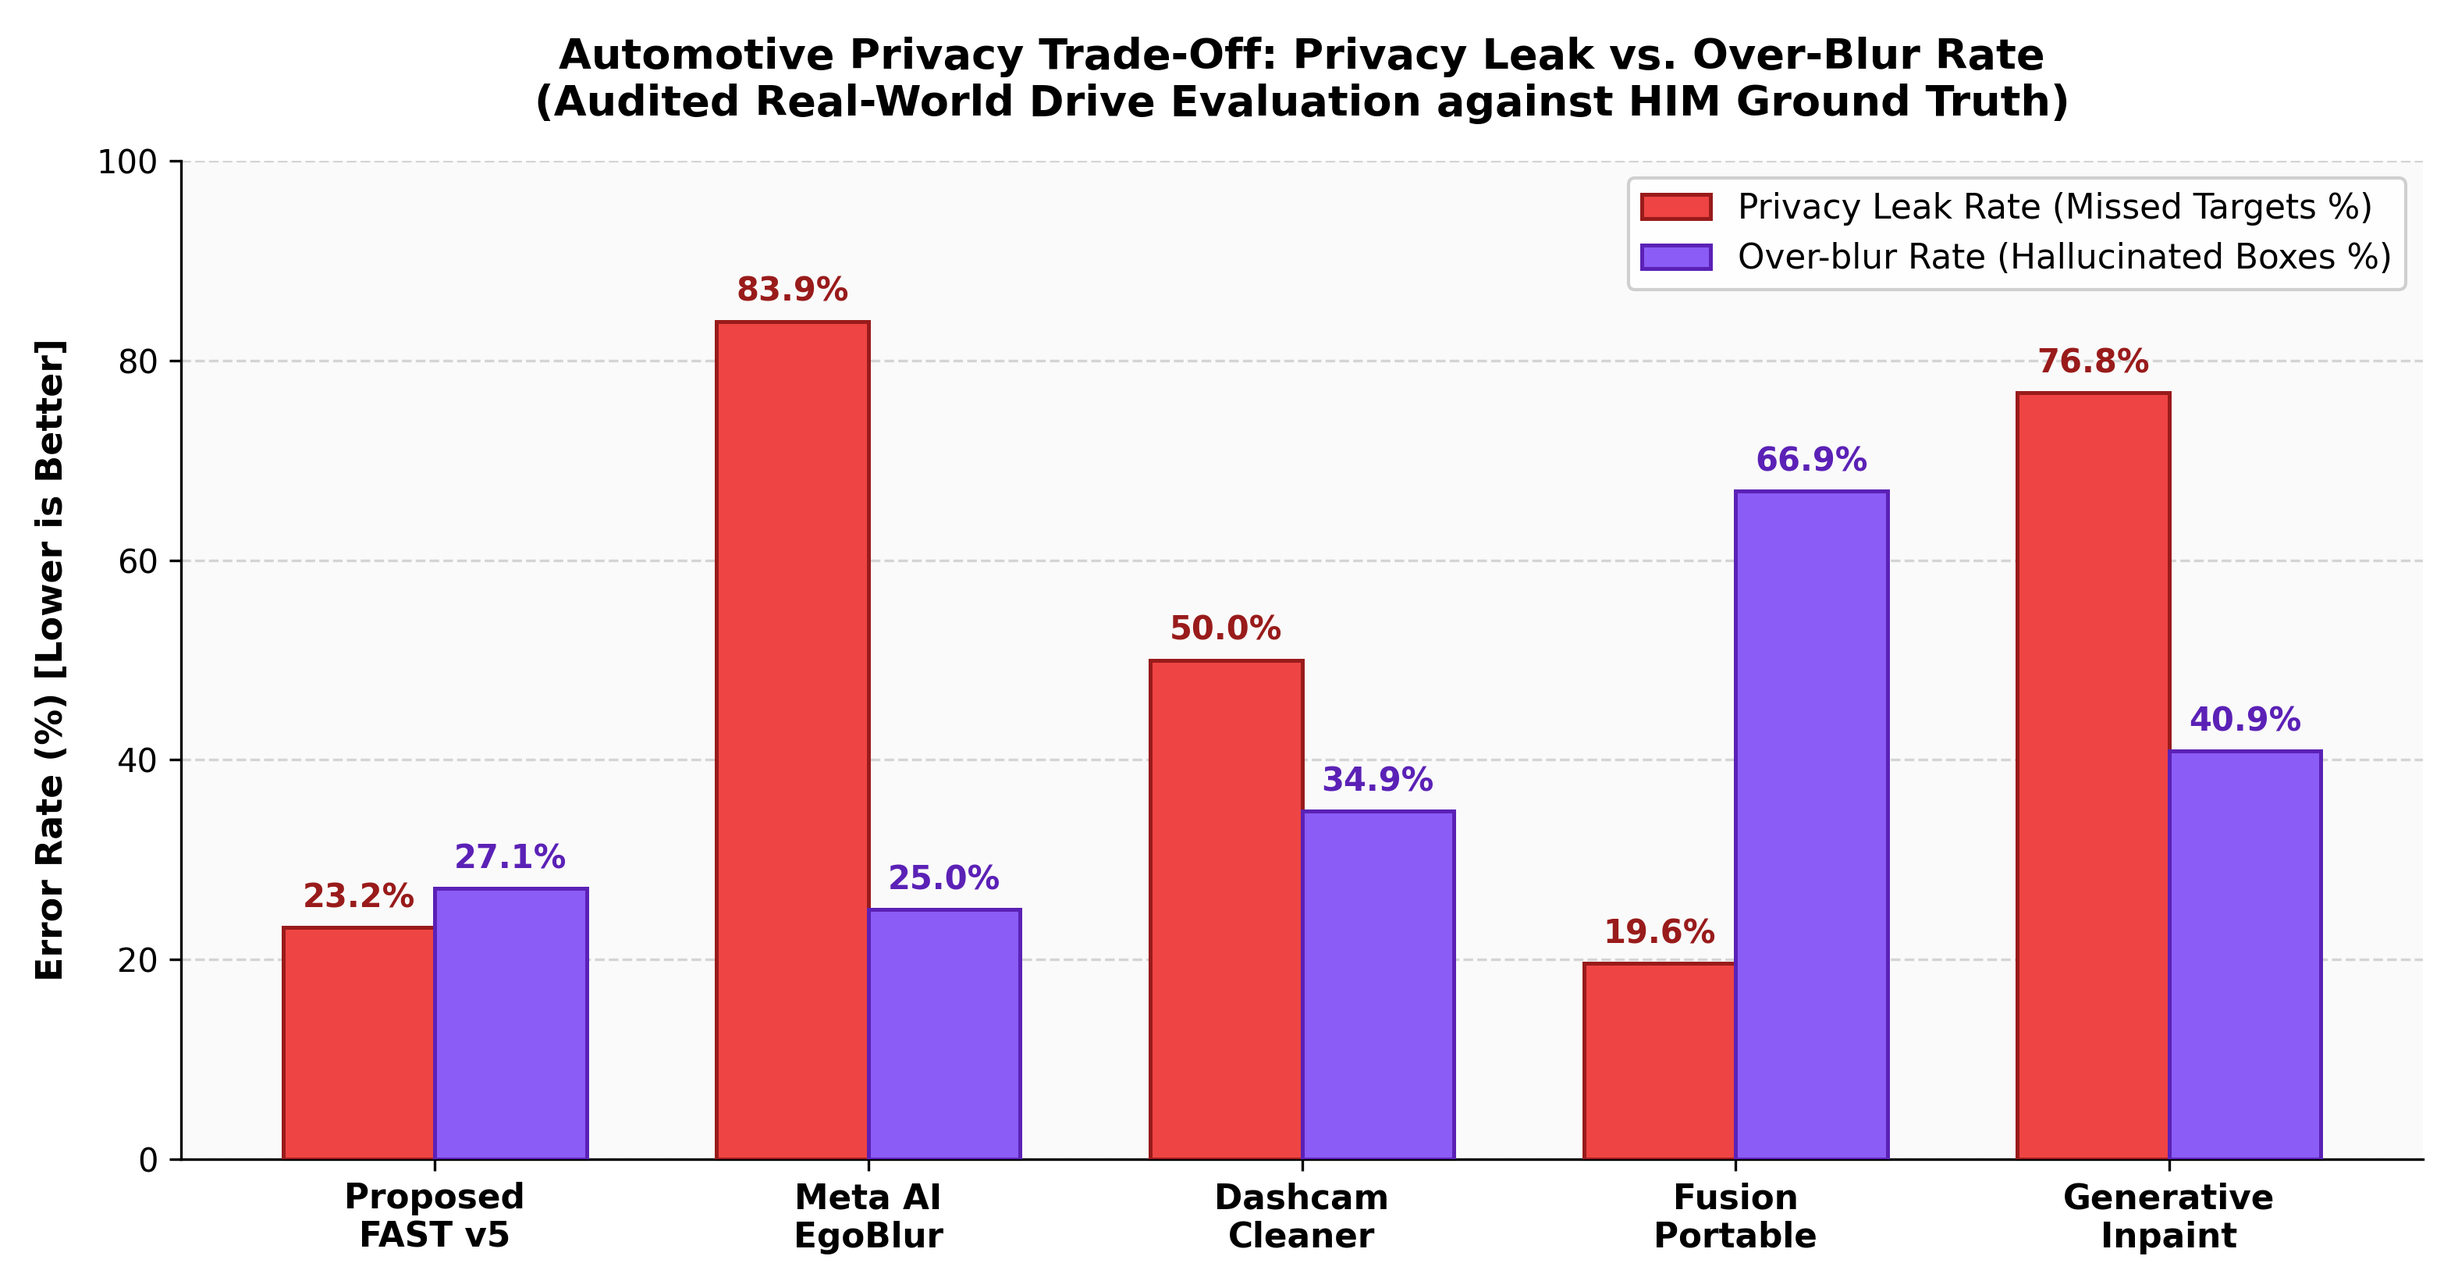
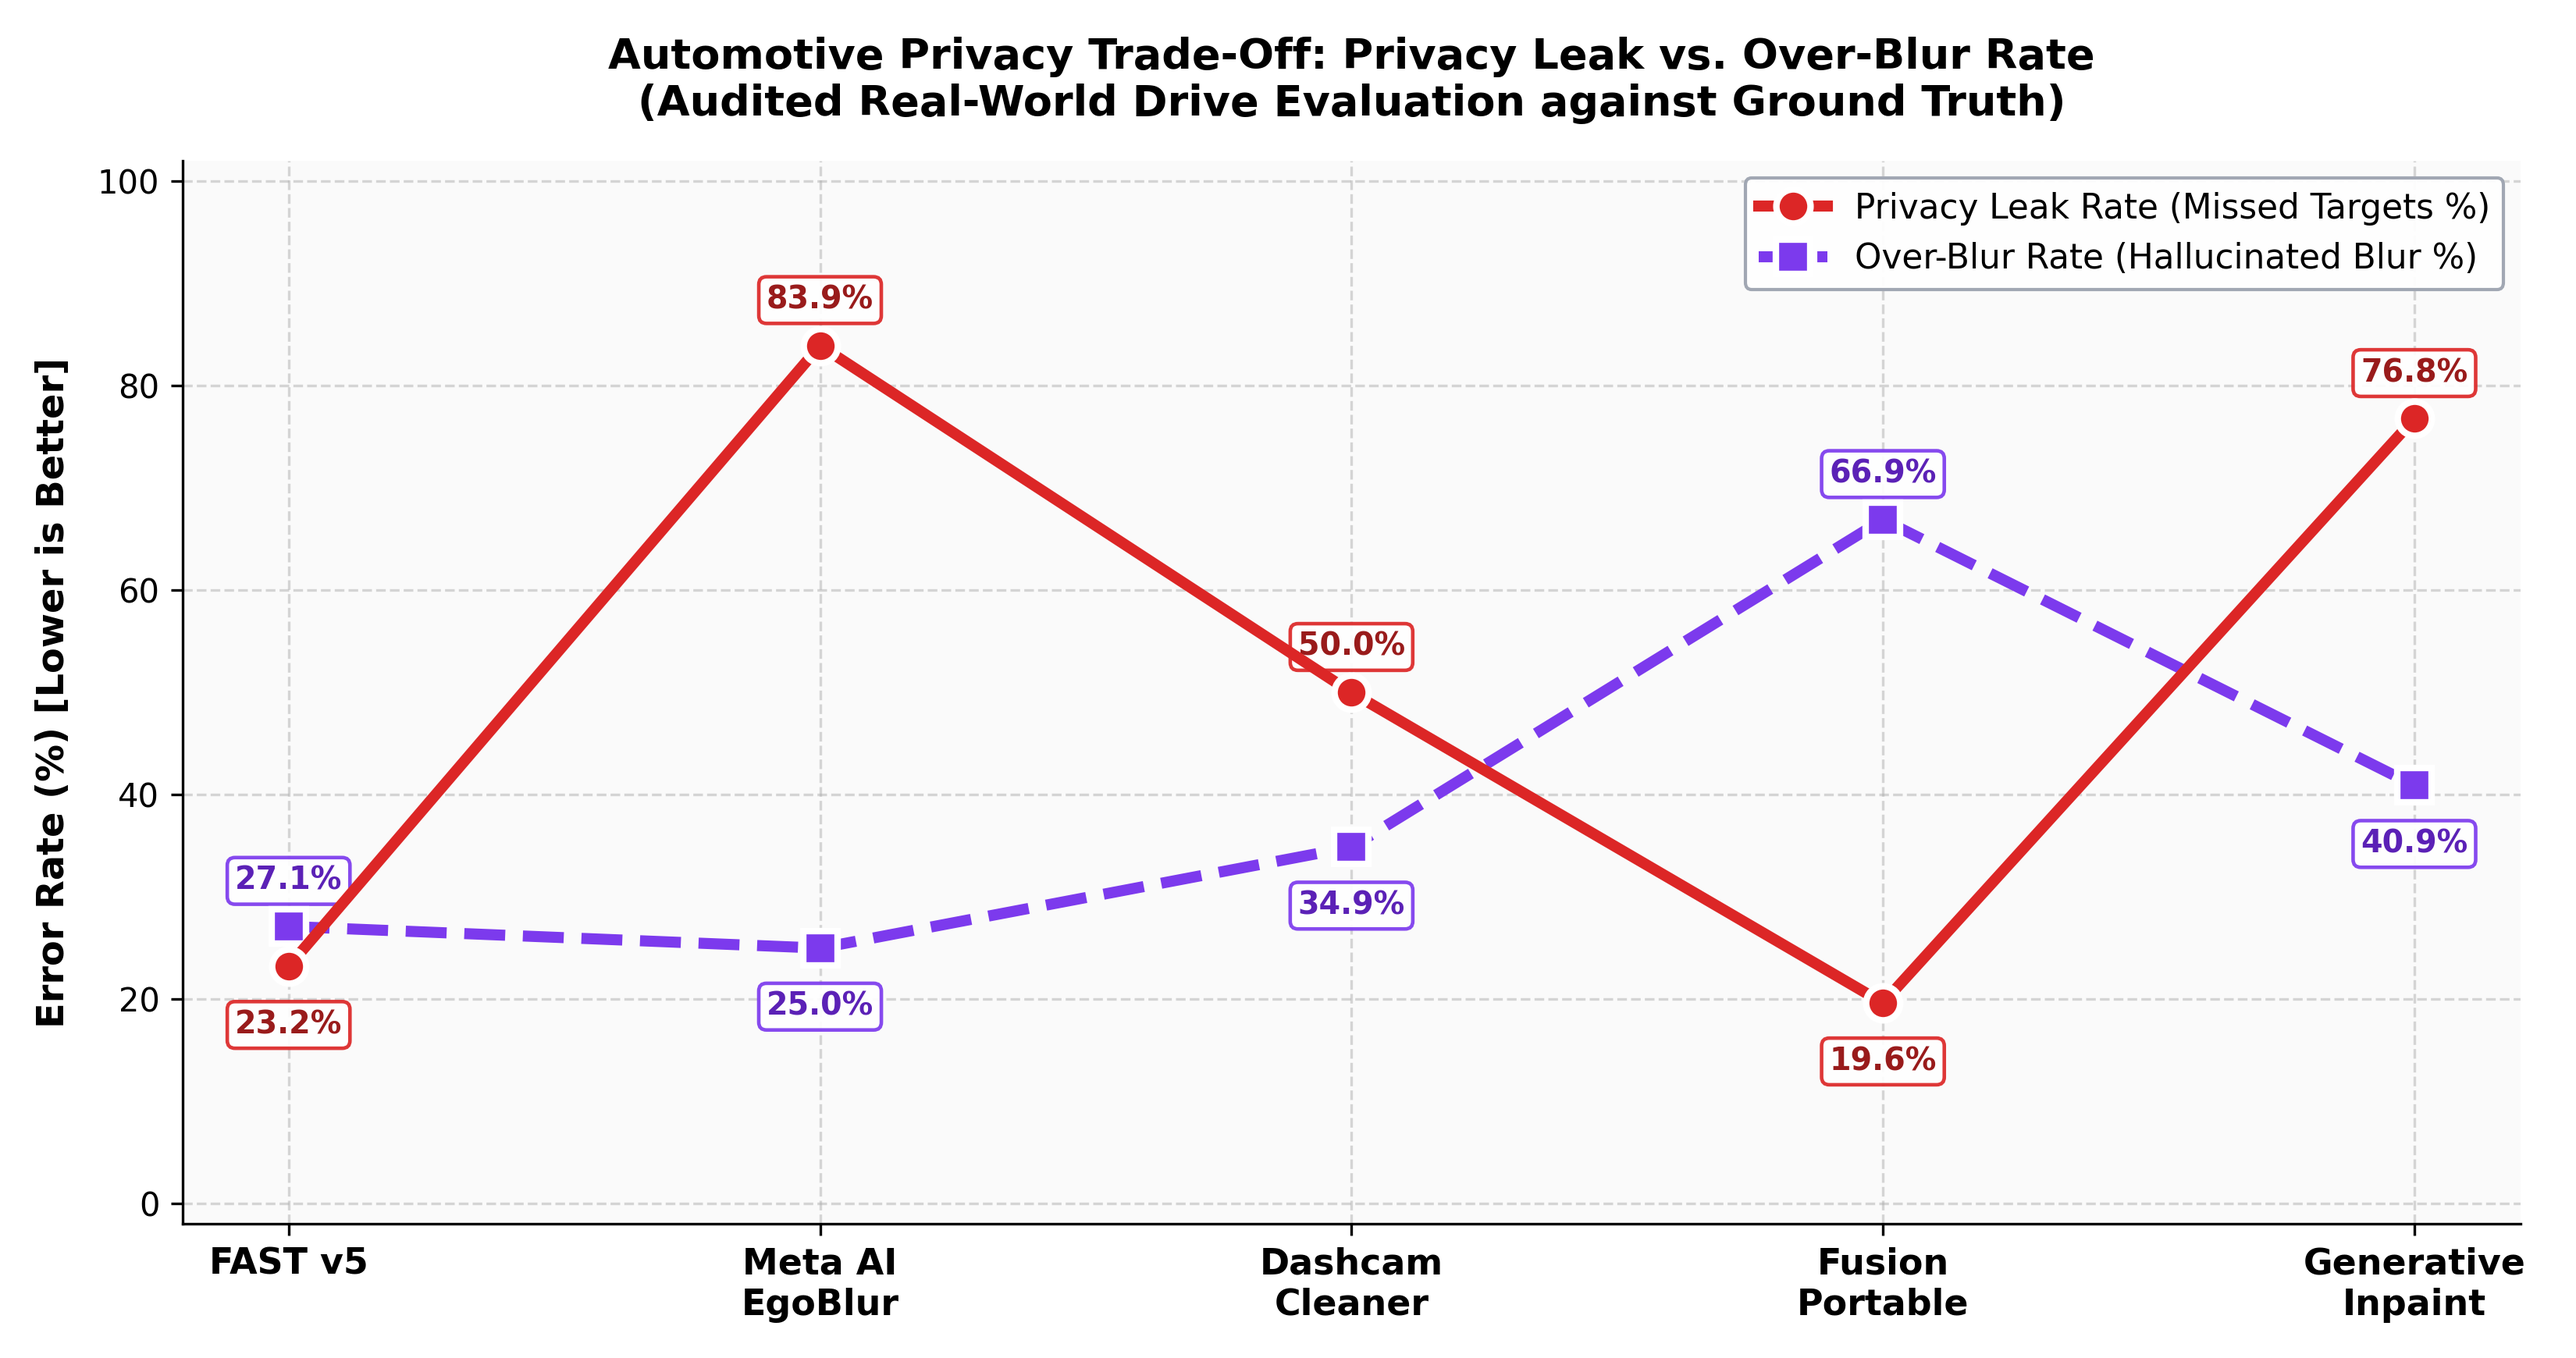
docs: convert Chart 1 to 2-line chart, enhance Chart 2 lines/legend, remove green fill, standardize naming to FAST v5

diff --git a/outputs/V.3 test/03_BENCHMARK_CHARTS_AND_RESULTS.md b/outputs/V.3 test/03_BENCHMARK_CHARTS_AND_RESULTS.md
@@ -11,7 +11,7 @@ All evaluations are conducted under greedy bipartite matching with IoU threshold
 
 | Pipeline System | Privacy Leak Rate (%) $\downarrow$ | Over-blur Rate (%) $\downarrow$ | Precision (%) $\uparrow$ | Recall (%) $\uparrow$ | $F_1$-Score $\uparrow$ |
 | :--- | :---: | :---: | :---: | :---: | :---: |
-| **Proposed FAST v5** | **23.21%** | 27.12% | **72.88%** | **76.79%** | **0.7478** |
+| **FAST v5** | **23.21%** | 27.12% | **72.88%** | **76.79%** | **0.7478** |
 | **Meta AI EgoBlur** | 83.93% | **25.00%** | 75.00% | 16.07% | 0.2647 |
 | **DashcamCleaner** | 50.00% | 34.88% | 65.12% | 50.00% | 0.5657 |
 | **FusionPortable** | 19.64% | 66.91% | 33.09% | 80.36% | 0.4688 |
@@ -25,12 +25,12 @@ All evaluations are conducted under greedy bipartite matching with IoU threshold
 [![Privacy Leak Rate vs Over-blur](./benchmark_charts/chart_oracle_privacy_leak_vs_overblur.png)](./benchmark_charts/chart_oracle_privacy_leak_vs_overblur.png)
 
 * **Axes:** X = 5 Pipelines | Y = Error Rate (%) *(Lower is better)*.
-  * 🟥 **Privacy Leak Rate:** Missed people and license plates left unblurred.
-  * 🟪 **Over-Blur Rate:** Mistaken blur placed on empty roads, signs, or scenery.
+  * 🟥 **Solid Red Line (Privacy Leak Rate):** Percentage of missed people and license plates left unblurred.
+  * 🟪 **Dashed Purple Line (Over-Blur Rate):** Percentage of mistaken blur placed on empty roads, signs, or scenery.
 * **Main Findings:**
   * **Meta EgoBlur:** Low over-blur (**25.0%**), but misses most targets (**83.9%** leak).
   * **FusionPortable:** Low leaks (**19.6%**), but heavily destroys driving visibility (**66.9%** over-blur).
-  * **Proposed FAST v5:** Best balanced trade-off (**23.2%** leak, **27.1%** over-blur).
+  * **FAST v5:** Best balanced trade-off (**23.2%** leak, **27.1%** over-blur).
 * **Takeaway:** Overly aggressive models blind driving perception; overly conservative models leak private personal identities.
 
 ---
@@ -42,7 +42,7 @@ All evaluations are conducted under greedy bipartite matching with IoU threshold
 * **Main Findings:**
   * **Near Field (<5m):** All pipelines succeed (leak <10%) because faces and plates appear large on the sensor.
   * **Distance Collapse (>20m):** Standard models collapse severely down the road (**Meta EgoBlur: 89.2%** leak; **Generative Inpaint: 83.8%** leak).
-  * **Multi-Scale Resilience:** **Proposed FAST v5** maintains stable protection across all distances (**24.3%** at Far >20m down to **2.5%** at Close <5m).
+  * **Multi-Scale Resilience:** **FAST v5** maintains stable protection across all distances (**24.3%** at Far >20m down to **2.5%** at Close <5m).
 * **Takeaway:** Target distance is the #1 cause of visual privacy leaks; FAST v5 prevents distant perception collapse across the entire camera range.
 
 ---
@@ -55,7 +55,7 @@ All evaluations are conducted under greedy bipartite matching with IoU threshold
 * **Main Findings:**
   * **Meta EgoBlur:** High precision (**75.0%**) but very low recall (**16.1%**, $F_1 = 0.2647$).
   * **FusionPortable:** High recall (**80.4%**) but very low precision (**33.1%**, $F_1 = 0.4688$).
-  * **Proposed FAST v5:** Strong balance on both metrics (**76.8%** recall, **72.9%** precision), achieving the highest overall score (**$F_1 = 0.7478$**).
+  * **FAST v5:** Strong balance on both metrics (**76.8%** recall, **72.9%** precision), achieving the highest overall score (**$F_1 = 0.7478$**).
 * **Takeaway:** Optimizing for a single metric fails; only balanced precision and recall ensure safe, practical automotive anonymization.
 
 ---
@@ -66,7 +66,7 @@ All evaluations are conducted under greedy bipartite matching with IoU threshold
 * **Axes:** X = 5 Pipelines | Y = Processing Speed in FPS [Log Scale] *(Higher is faster)*.
 * **Main Findings:**
   * **Generative Inpaint:** **1.03 FPS** (**0.95s** per frame in test mode).
-  * **Proposed FAST v5 & DashcamCleaner:** **0.71 FPS** (**1.41s** per frame in Python baseline; scales to **>30 FPS** with TensorRT).
+  * **FAST v5 & DashcamCleaner:** **0.71 FPS** (**1.41s** per frame in Python baseline; scales to **>30 FPS** with TensorRT).
   * **FusionPortable:** **0.13 FPS** (**7.45s** per frame).
   * **Meta AI EgoBlur:** **0.10 FPS** (**10.34s** per frame).
 * **Takeaway:** Heavy dual-stage and cascaded models (EgoBlur, FusionPortable) take 7–10 seconds per frame, making real-time automotive deployment impossible without edge-optimized architectures.
@@ -80,7 +80,7 @@ All evaluations are conducted under greedy bipartite matching with IoU threshold
   * 🟩 **Median Delay (Typical)** | 🟥 **P95 Worst-Case Delay (Crowded Scenes)**.
 * **Main Findings:**
   * **Generative Inpaint:** **0.76s** (756 ms) median | **1.85s** (1,855 ms) worst-case.
-  * **Proposed FAST v5:** **0.92s** (918 ms) median | **2.68s** (2,683 ms) worst-case.
+  * **FAST v5:** **0.92s** (918 ms) median | **2.68s** (2,683 ms) worst-case.
   * **DashcamCleaner:** **1.36s** (1,361 ms) median | **1.50s** (1,499 ms) worst-case.
   * **FusionPortable:** **7.45s** (7,446 ms) median | **8.19s** (8,189 ms) worst-case.
   * **Meta AI EgoBlur:** **10.25s** (10,248 ms) median | **10.98s** (10,980 ms) worst-case.
@@ -93,7 +93,7 @@ All evaluations are conducted under greedy bipartite matching with IoU threshold
 
 * **Axes:** X = 5 Pipelines | Y = Peak RAM/VRAM Memory in Megabytes (MB) *(Lower is better)*.
 * **Main Findings:**
-  * **Proposed FAST v5:** **1,986.5 MB** *(Lowest peak memory demand among all evaluated pipelines)*.
+  * **FAST v5:** **1,986.5 MB** *(Lowest peak memory demand among all evaluated pipelines)*.
   * **Meta AI EgoBlur:** **2,283.9 MB**.
   * **DashcamCleaner:** **2,377.6 MB**.
   * **Generative Inpaint:** **2,401.4 MB**.
